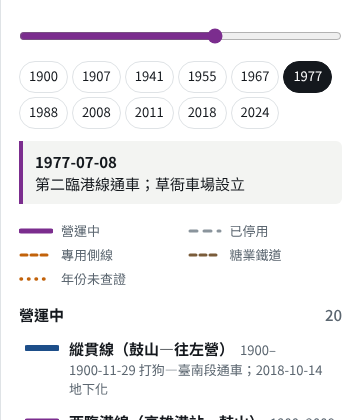
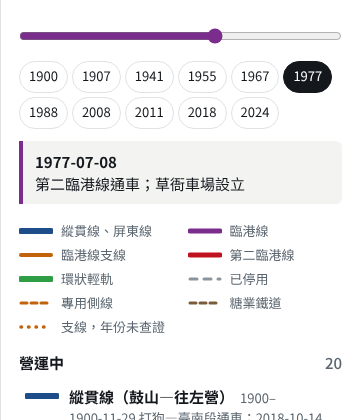
Key lists each solid-line colour
The key now names every route colour (blue trunk/Pingtung line, purple
harbour line, orange branches, red second harbour line, green light rail)
alongside the dashed and dotted styles.

Claude-Session: https://claude.ai/code/session_015zbYwYyapaxaRJ8gfExodh

diff --git a/pipeline/tpl.html b/pipeline/tpl.html
@@ -130,7 +130,7 @@ const EV=[
 const STY={trunk:{color:'#1d4e89',weight:6},main:{color:'#7b2d8e',weight:5},br:{color:'#c2620a',weight:4},red:{color:'#c1121f',weight:5},unc:{color:'#c2620a',weight:3.5,dashArray:'0.5 7'},lr:{color:'#2f9e44',weight:7,opacity:.85},yd:{color:'#7b2d8e',weight:2.5,opacity:.9}};
 const GH={color:'#8a949c',weight:3,dashArray:'7 7',opacity:.9};
 const sw=S=>`<svg width="34" height="10" aria-hidden="true"><line x1="2" y1="5" x2="32" y2="5" stroke="${S.color}" stroke-width="${Math.min(S.weight,6)}" ${S.dashArray?`stroke-dasharray="${S.dashArray}"`:''} stroke-linecap="round"/></svg>`;
-document.getElementById('key').innerHTML=[[STY.main,'營運中'],[GH,'已停用'],[{color:'#c2620a',weight:3,dashArray:'6 4'},'專用側線'],[{color:'#7a5c3a',weight:3,dashArray:'6 4'},'糖業鐵道'],[STY.unc,'年份未查證']].map(([s,t])=>`<div>${sw(s)}${t}</div>`).join('');
+document.getElementById('key').innerHTML=[[STY.trunk,'縱貫線、屏東線'],[STY.main,'臨港線'],[STY.br,'臨港線支線'],[STY.red,'第二臨港線'],[STY.lr,'環狀輕軌'],[GH,'已停用'],[{color:'#c2620a',weight:3,dashArray:'6 4'},'專用側線'],[{color:'#7a5c3a',weight:3,dashArray:'6 4'},'糖業鐵道'],[STY.unc,'支線，年份未查證']].map(([s,t])=>`<div>${sw(s)}${t}</div>`).join('');
 const m=L.map('map',{zoomControl:false,zoomSnap:.1,attributionControl:true,maxBounds:G.bounds,maxBoundsViscosity:.8,minZoom:12,maxZoom:17});window.__map=m;
 L.imageOverlay('base.jpg',G.bounds).addTo(m);L.control.zoom({position:'topright'}).addTo(m);
 const mapEl=document.getElementById('map');let Z0=13;

diff --git a/site/index.html b/site/index.html
@@ -130,7 +130,7 @@ const EV=[
 const STY={trunk:{color:'#1d4e89',weight:6},main:{color:'#7b2d8e',weight:5},br:{color:'#c2620a',weight:4},red:{color:'#c1121f',weight:5},unc:{color:'#c2620a',weight:3.5,dashArray:'0.5 7'},lr:{color:'#2f9e44',weight:7,opacity:.85},yd:{color:'#7b2d8e',weight:2.5,opacity:.9}};
 const GH={color:'#8a949c',weight:3,dashArray:'7 7',opacity:.9};
 const sw=S=>`<svg width="34" height="10" aria-hidden="true"><line x1="2" y1="5" x2="32" y2="5" stroke="${S.color}" stroke-width="${Math.min(S.weight,6)}" ${S.dashArray?`stroke-dasharray="${S.dashArray}"`:''} stroke-linecap="round"/></svg>`;
-document.getElementById('key').innerHTML=[[STY.main,'營運中'],[GH,'已停用'],[{color:'#c2620a',weight:3,dashArray:'6 4'},'專用側線'],[{color:'#7a5c3a',weight:3,dashArray:'6 4'},'糖業鐵道'],[STY.unc,'年份未查證']].map(([s,t])=>`<div>${sw(s)}${t}</div>`).join('');
+document.getElementById('key').innerHTML=[[STY.trunk,'縱貫線、屏東線'],[STY.main,'臨港線'],[STY.br,'臨港線支線'],[STY.red,'第二臨港線'],[STY.lr,'環狀輕軌'],[GH,'已停用'],[{color:'#c2620a',weight:3,dashArray:'6 4'},'專用側線'],[{color:'#7a5c3a',weight:3,dashArray:'6 4'},'糖業鐵道'],[STY.unc,'支線，年份未查證']].map(([s,t])=>`<div>${sw(s)}${t}</div>`).join('');
 const m=L.map('map',{zoomControl:false,zoomSnap:.1,attributionControl:true,maxBounds:G.bounds,maxBoundsViscosity:.8,minZoom:12,maxZoom:17});window.__map=m;
 L.imageOverlay('base.jpg',G.bounds).addTo(m);L.control.zoom({position:'topright'}).addTo(m);
 const mapEl=document.getElementById('map');let Z0=13;

diff --git a/CLAUDE.md b/CLAUDE.md
@@ -66,14 +66,11 @@
 - **每條看得見的線都要點得到**：
   - 用游標附近查詢（`pickAt`），把附近所有的線列在同一個提示框裡；不要靠各條線自己的滑鼠事件。
   - 原因：重疊路廊上只有最上層那條收得到事件，例如輕軌蓋住舊臨港線；虛線的空隙也點不到。
-- **線型要有說明**：側欄的圖例說明線型，與地圖用同一組樣式產生：
-  - 實線：營運中，顏色區分路線系統；
-  - 灰色虛線：已停用；
-  - 橘色虛線：專用側線；
-  - 棕色虛線：糖業鐵道；
-  - 點線：年份未查證。
+- **顏色與線型都要有說明**：側欄的圖例與地圖用同一組樣式產生。
+  - 實線依顏色分：藍色是縱貫線、屏東線，紫色是臨港線，橘色是臨港線支線，紅色是第二臨港線，綠色是環狀輕軌。
+  - 其他線型：灰色虛線是已停用，橘色虛線是專用側線，棕色虛線是糖業鐵道，橘色點線是年份未查證的支線。
 
-  改線型時圖例要一起改，不要讓同一種線型代表兩種意思。
+  改顏色或線型時圖例要一起改；同一種顏色或線型不能代表兩種意思。
 - **標籤**：沿線 SVG 文字，隨縮放調整，重疊時自動隱藏。
 - **改完頁面**：跑 `python tools/check_page.py site/index.html`，並截圖看桌機與手機寬度。
 

diff --git a/WORKLOG.md b/WORKLOG.md
@@ -186,4 +186,5 @@
 - 做法：
   - 側欄在當年事件下方加一個小圖例，列出營運中、已停用、專用側線、糖業鐵道、年份未查證五種線型。圖例的線樣是用地圖本身的樣式產生的，兩者不會不一致。
   - 「年份未查證」原本是短虛線，和側線分不太出來，改成圓點的點線。
+- 使用者追問：「橘色實線呢」。圖例原本只用一條紫色實線代表「營運中」，沒有說明顏色。改成每種實線顏色各列一項：縱貫線與屏東線、臨港線、臨港線支線（橘色實線：表岸壁線、濱線、中島線）、第二臨港線、環狀輕軌，再接已停用、專用側線、糖業鐵道、年份未查證。
 
